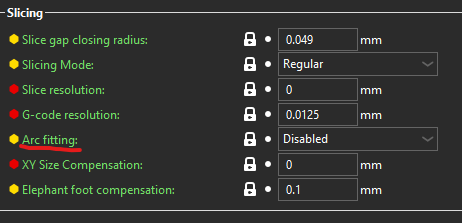
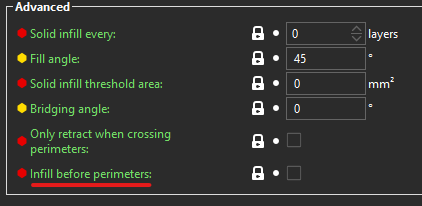
addition to slicer settings guide

diff --git a/Prusa/README.md b/Prusa/README.md
@@ -14,11 +14,15 @@ This is a fork of the repository of CNC-Kitchen. I didn't change the working pri
 
 ## Slicer settings (enable expert mode):
 ### Disable Arc fitting in print settings-> advanced:
-![alt text](pictures/image.png)
+![alt text](<pictures/Screenshot 2024-03-21 231928.png>)
 
 ### Use relative extrusion in printer settings-> general:
 
-![alt text](pictures/image-1.png)
+![Relative extrusion](<pictures/Screenshot 2024-03-21 232256.png>)
+
+### Infill before perimiter need to be turned off printer settings-> infill:
+
+![Infill](pictures/image.png)
 
 ### Automatically call script when saving the file:
 ![alt text](pictures/image-2.png)
